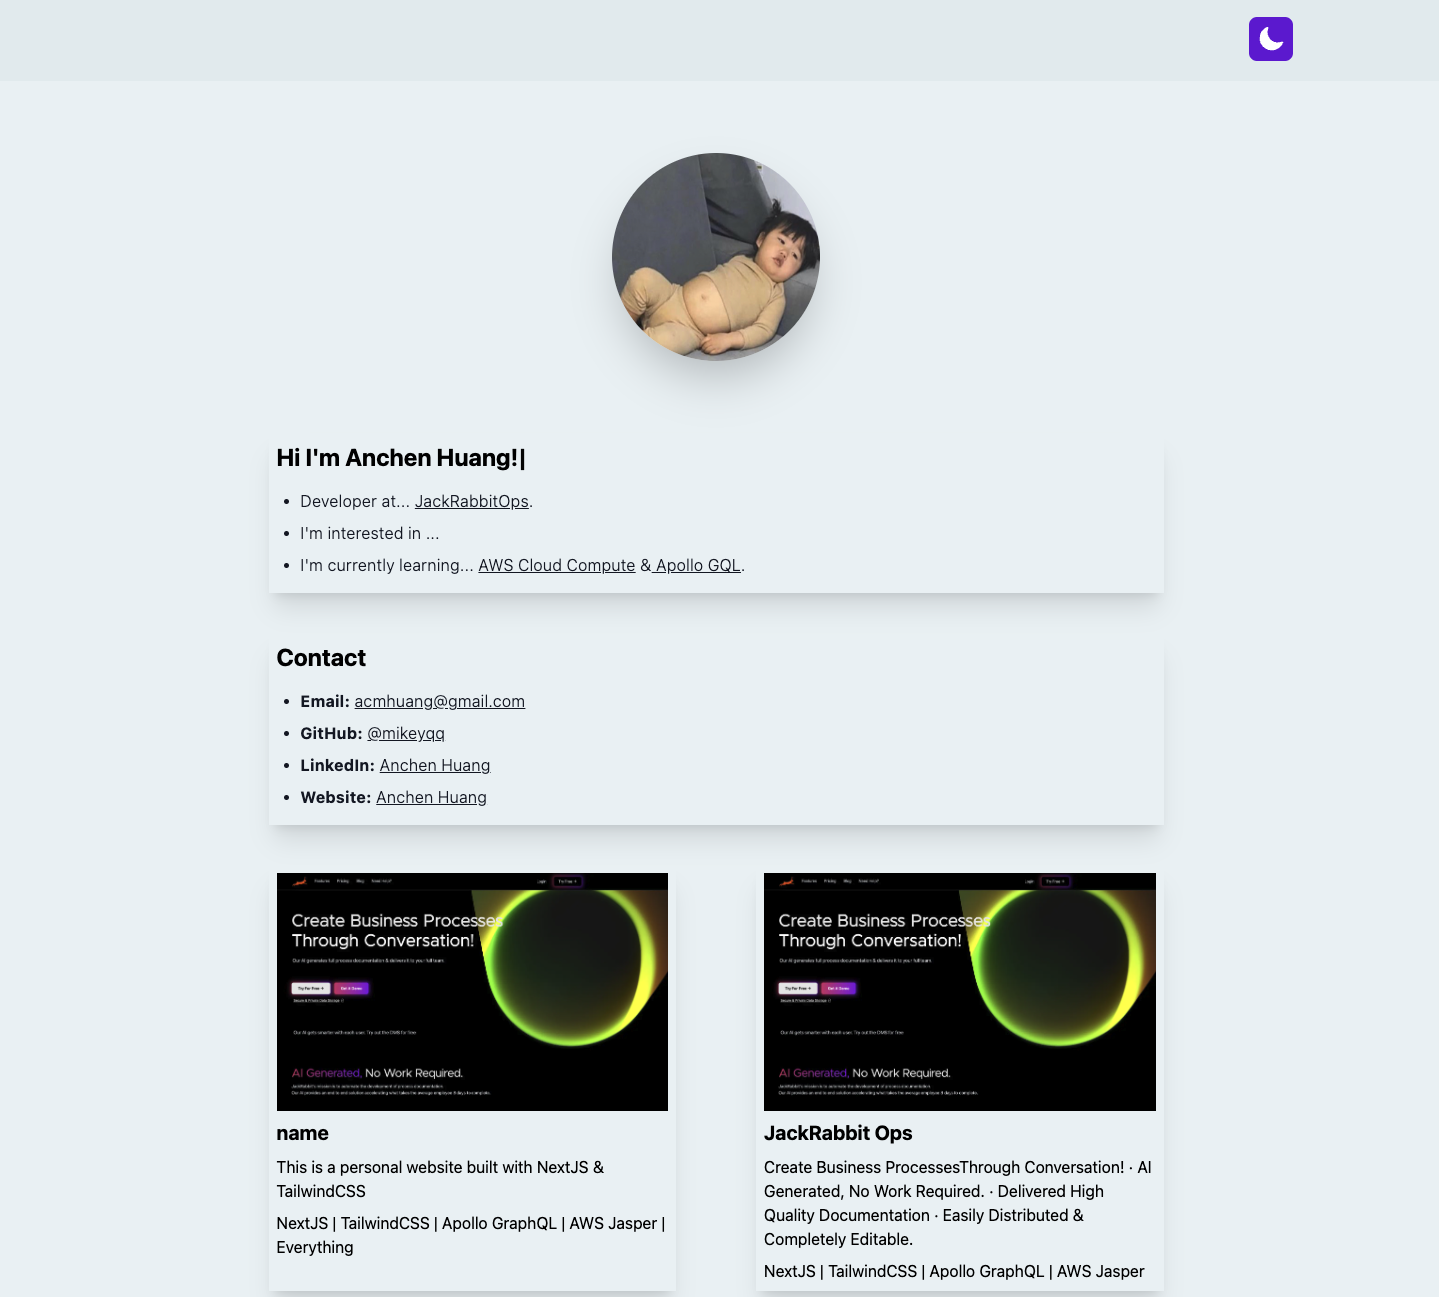
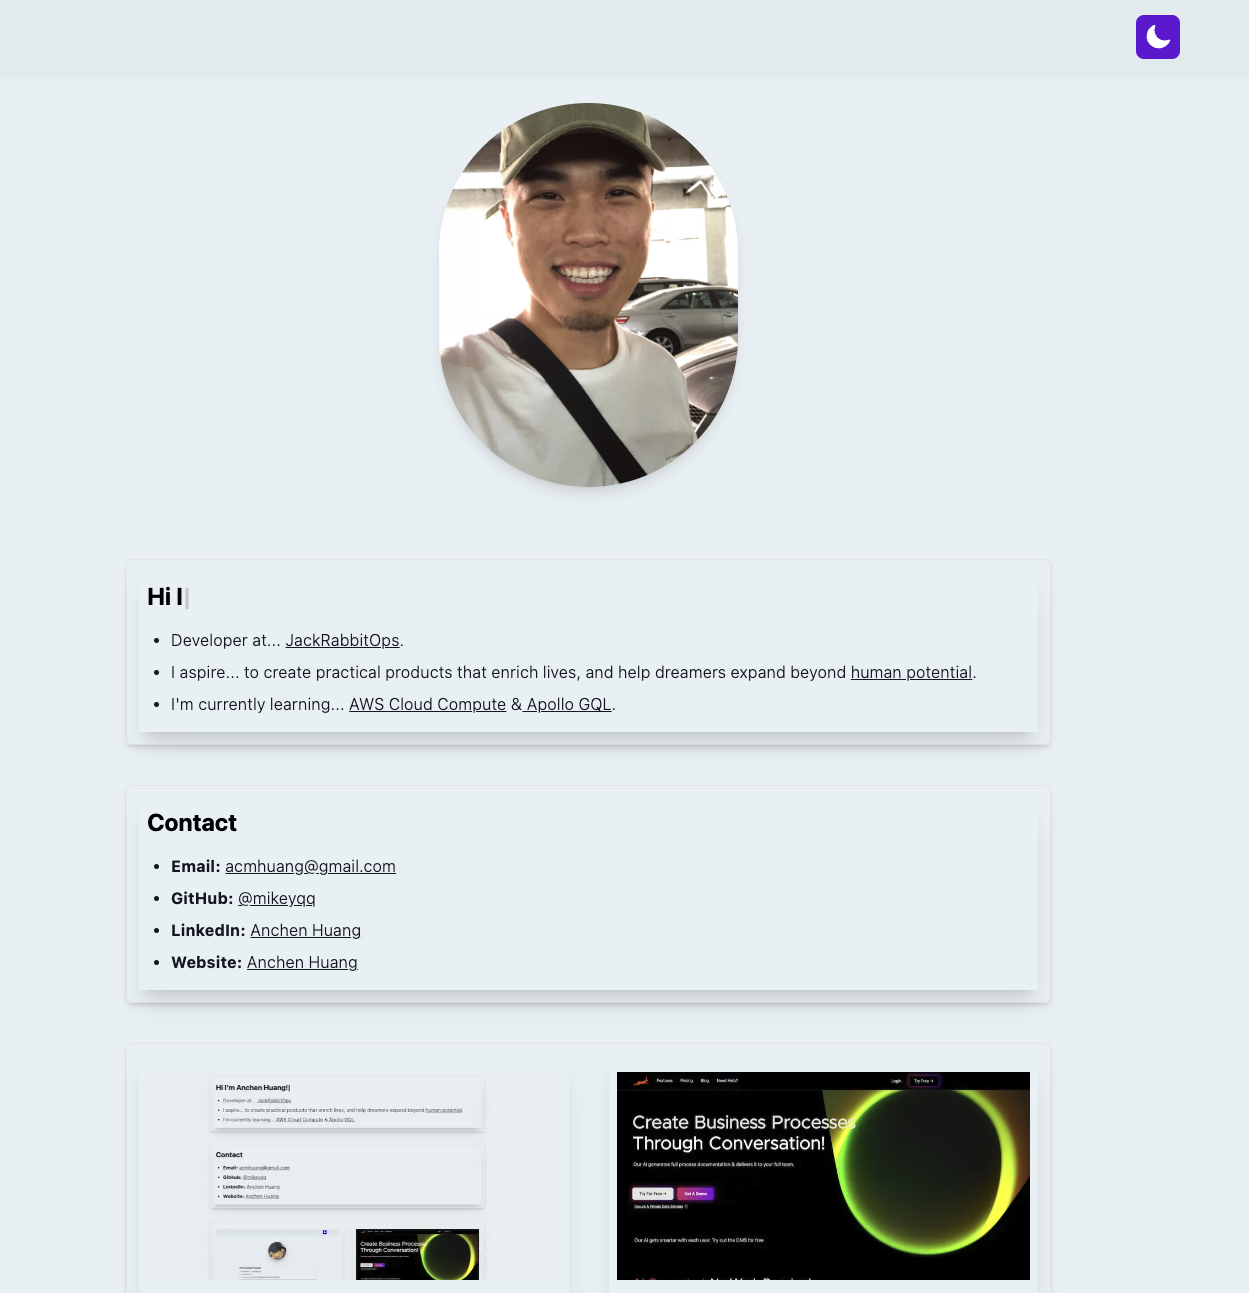
fixed profile pic / adjust sizing to each section

Changed region(s): [[0.1249, 0.4331, 0.8431, 1.0], [0.1873, 0.0619, 0.7806, 0.464], [0.8431, 0.0, 0.968, 0.0619]]

diff --git a/sections/about/about.jsx b/sections/about/about.jsx
@@ -3,7 +3,7 @@ import Typewriter from "typewriter-effect";
 
 export default function About() {
   return (
-    <div className="ml-12 mr-12">
+    <div className="ml-12 mr-12 border rounded-md shadow-md dark:shadow-slate-300 px-3 py-3">
       <div className="flex flex-col justify-start shadow-xl px-2 py-2">
         <div>
           <h1 className="font-bold text-2xl">
@@ -21,7 +21,8 @@ export default function About() {
             Developer at... <u>JackRabbitOps</u>.
           </li>
           <li className="mb-2 text-xl font-light  tracking-wide text-base text-gray-900 dark:text-white">
-            I'm interested in ...
+            I aspire... to create practical products that enrich lives, and help
+            dreamers expand beyond <u>human potential</u>.
           </li>
           <li className="mb-2 text-xl font-light  tracking-wide text-base text-gray-900 dark:text-white">
             I'm currently learning... <u>AWS Cloud Compute</u> &amp;

diff --git a/components/profile.jsx b/components/profile.jsx
@@ -1,11 +1,12 @@
 import React from "react";
+import Image from "next/image";
 
 export default function profile() {
   return (
     <div className="max-w-6xl mx-5 xl:mx-auto">
       <img
-        className="w-40 h-40 rounded-full md:w-52 md:h-52 shadow-2xl dark:shadow-slate-800"
-        src="/profile.png"
+        className="w-full h-56 rounded-full md:w-full md:h-80 lg:h-96 shadow-lg dark:shadow-slate-800"
+        src="/profile.jpg"
         alt="Rounded avatar"
       />
     </div>

diff --git a/sections/work/work.jsx b/sections/work/work.jsx
@@ -23,8 +23,8 @@ export default function Work() {
     },
   ];
   return (
-    <div className="ml-12 mr-12">
-      <div className="flex flex-col lg:flex-row justify-between gap-10 border-2 border-red-700">
+    <div className="ml-12 mr-12 border rounded-md shadow-md dark:shadow-slate-300 px-3 py-3">
+      <div className="flex flex-col lg:flex-row justify-between gap-10">
         {work.map((item, index) => (
           <div
             key={index}

diff --git a/sections/contact/contact.jsx b/sections/contact/contact.jsx
@@ -2,7 +2,7 @@ import React from "react";
 
 export default function About() {
   return (
-    <div className="ml-12 mr-12 ">
+    <div className="ml-12 mr-12 border rounded-md shadow-md dark:shadow-slate-300 px-3 py-3">
       <div className="flex flex-col justify-start shadow-xl px-2 py-2">
         <div>
           <h1 className="font-bold text-2xl">Contact</h1>
